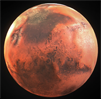
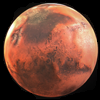
Обновил меню выбора уровня

diff --git a/main.py b/main.py
@@ -6,6 +6,8 @@ import pygame_gui
 import csv
 import sqlite3
 
+from game_process import game_process
+
 
 pygame.init()
 
@@ -132,27 +134,30 @@ def start_menu():
         pygame.display.update()
 
 
-def draw_planets(pliton, teptune, buran, maturne, jupater,
-                 mors, kemlya, veneda, merciry, salonce):
-    screen.blit(pliton, (50, 50))
-    screen.blit(teptune, (50, 200))
-    screen.blit(buran, (50, 350))
-    screen.blit(maturne, (185, 50))
-    screen.blit(jupater, (200, 200))
-    screen.blit(mors, (200, 350))
-    screen.blit(kemlya, (350, 50))
-    screen.blit(veneda, (350, 200))
-    screen.blit(merciry, (350, 350))
-    screen.blit(salonce, (515, 325))
+def draw_planets(images, sizes):
+    screen.blit(images[0], sizes[0])
+    screen.blit(images[1], sizes[1])
+    screen.blit(images[2], sizes[2])
+    screen.blit(images[3], sizes[3])
+    screen.blit(images[4], sizes[4])
+    screen.blit(images[5], sizes[5])
+    screen.blit(images[6], sizes[6])
+    screen.blit(images[7], sizes[7])
+    screen.blit(images[8], sizes[8])
+    screen.blit(images[9], sizes[9])
+
+
+def draw_image_square(image, coords):
+    square = pygame.Surface(tuple(map(lambda x: x + 4, image.get_size())))
+    square.fill(pygame.Color("red"))
+    new_coords = tuple(map(lambda x: x - 2, coords))
+    screen.blit(square, new_coords)
 
 
 def select_level_menu():
     global LEVEL_OPENED
 
     time_delta = clock.tick(60) / 1000
-    planets = ["Плитон", "Тептун", "Буран", "Матурн", "Юпатер",
-               "Морс", "Кемля", "Венеда", "Меркирий", "Салонце (финал)"]
-
     bg = load_image("start_bg_without_logo.jpg")
     screen.blit(bg, (0, 0))
     pliton_im = load_image("pliton.png")
@@ -192,12 +197,21 @@ def select_level_menu():
         salonce_im = load_image("salonce_2.png")
     else:
         salonce_im = load_image("salonce_2_locked.png")
+
+    planets = ["Плитон", "Тептун", "Буран", "Матурн", "Юпатер",
+               "Морс", "Кемля", "Венеда", "Меркирий", "Салонце (финал)"]
+    planet_images = [pliton_im, teptune_im, buran_im, maturne_im, jupater_im,
+                     mors_im, kemlya_im, veneda_im, merciry_im, salonce_im]
+    planet_images_coords = [(50, 50), (50, 200), (50, 350), (185, 50), (200, 200),
+                            (200, 350), (350, 50), (350, 200), (350, 350), (515, 325)]
+
     planet_choose = pygame_gui.elements.ui_drop_down_menu.UIDropDownMenu(
         options_list=planets,
         starting_option=planets[LEVEL_OPENED - 1],
         relative_rect=pygame.Rect((500, 50), (200, 50)),
         manager=manager
     )
+    choosen_planet = "Плитон"
     start_level = pygame_gui.elements.UIButton(
         relative_rect=pygame.Rect((60, 500), (310, 60)),
         text='Запустить уровень',
@@ -209,6 +223,7 @@ def select_level_menu():
         manager=manager
     )
     elements = [start_level, planet_choose, exit_to_menu_btn]
+
     while True:
         for event in pygame.event.get():
             if event.type == pygame.QUIT:
@@ -218,16 +233,27 @@ def select_level_menu():
                 if event.ui_element == exit_to_menu_btn:
                     kill_elements(elements)
                     return
+                if event.ui_element == start_level:
+                    kill_elements(elements)
+                    game_process(choosen_planet)
             if event.type == pygame_gui.UI_BUTTON_ON_HOVERED:
                 load_sound("button_hover_2.mp3")
             if event.type == pygame_gui.UI_DROP_DOWN_MENU_CHANGED:
-                print(event.text)
-                continue
+                choosen_planet = event.text
+                if planets.index(choosen_planet) <= LEVEL_OPENED - 1:
+                    start_level.enable()
+                else:
+                    start_level.disable()
             manager.process_events(event)
         manager.update(time_delta)
+
+        cur_p_index = planets.index(choosen_planet)
+        cur_p_image = planet_images[cur_p_index]
+        cur_p_coords = planet_images_coords[cur_p_index]
         screen.blit(bg, (0, 0))
-        draw_planets(pliton_im, teptune_im, buran_im, maturne_im, jupater_im,
-                     mors_im, kemlya_im, veneda_im, merciry_im, salonce_im)
+        draw_image_square(cur_p_image, cur_p_coords)
+        draw_planets(planet_images, planet_images_coords)
+
         manager.draw_ui(screen)
         pygame.display.update()
 
@@ -454,5 +480,6 @@ def stat_menu():
         pygame.display.update()
 
 
-start_menu()
-terminate()
+if __name__ == "__main__":
+    start_menu()
+    terminate()
